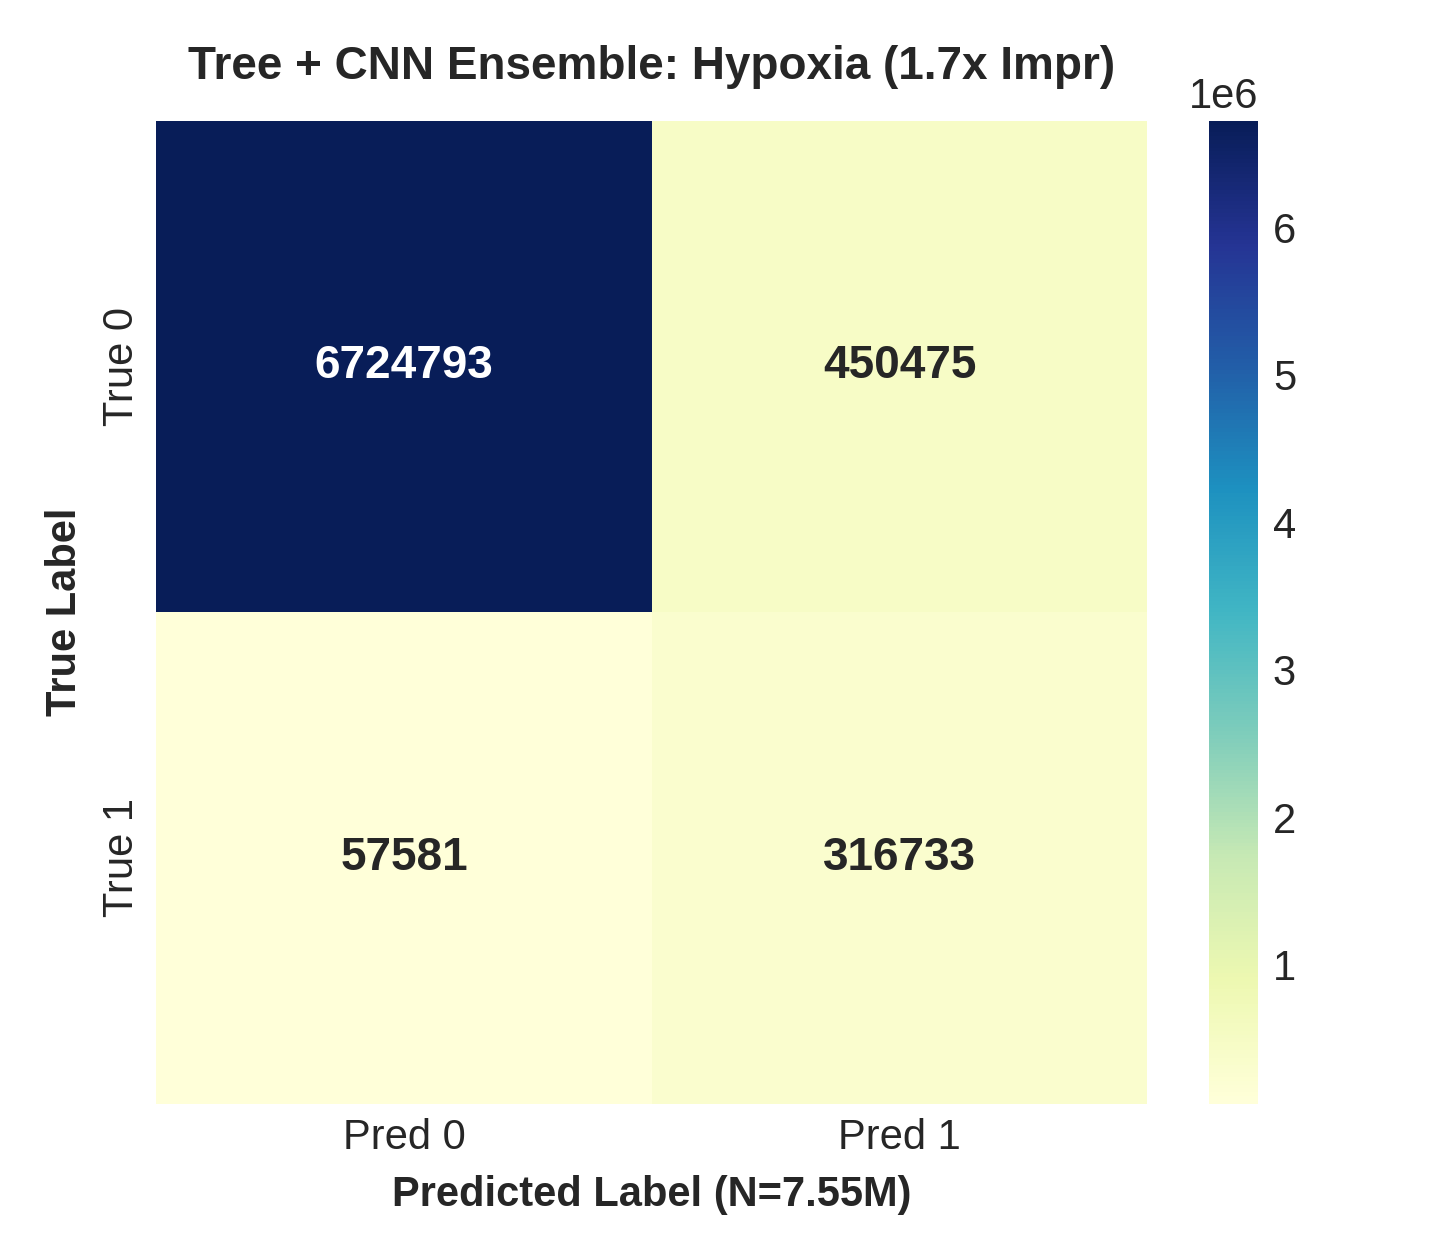
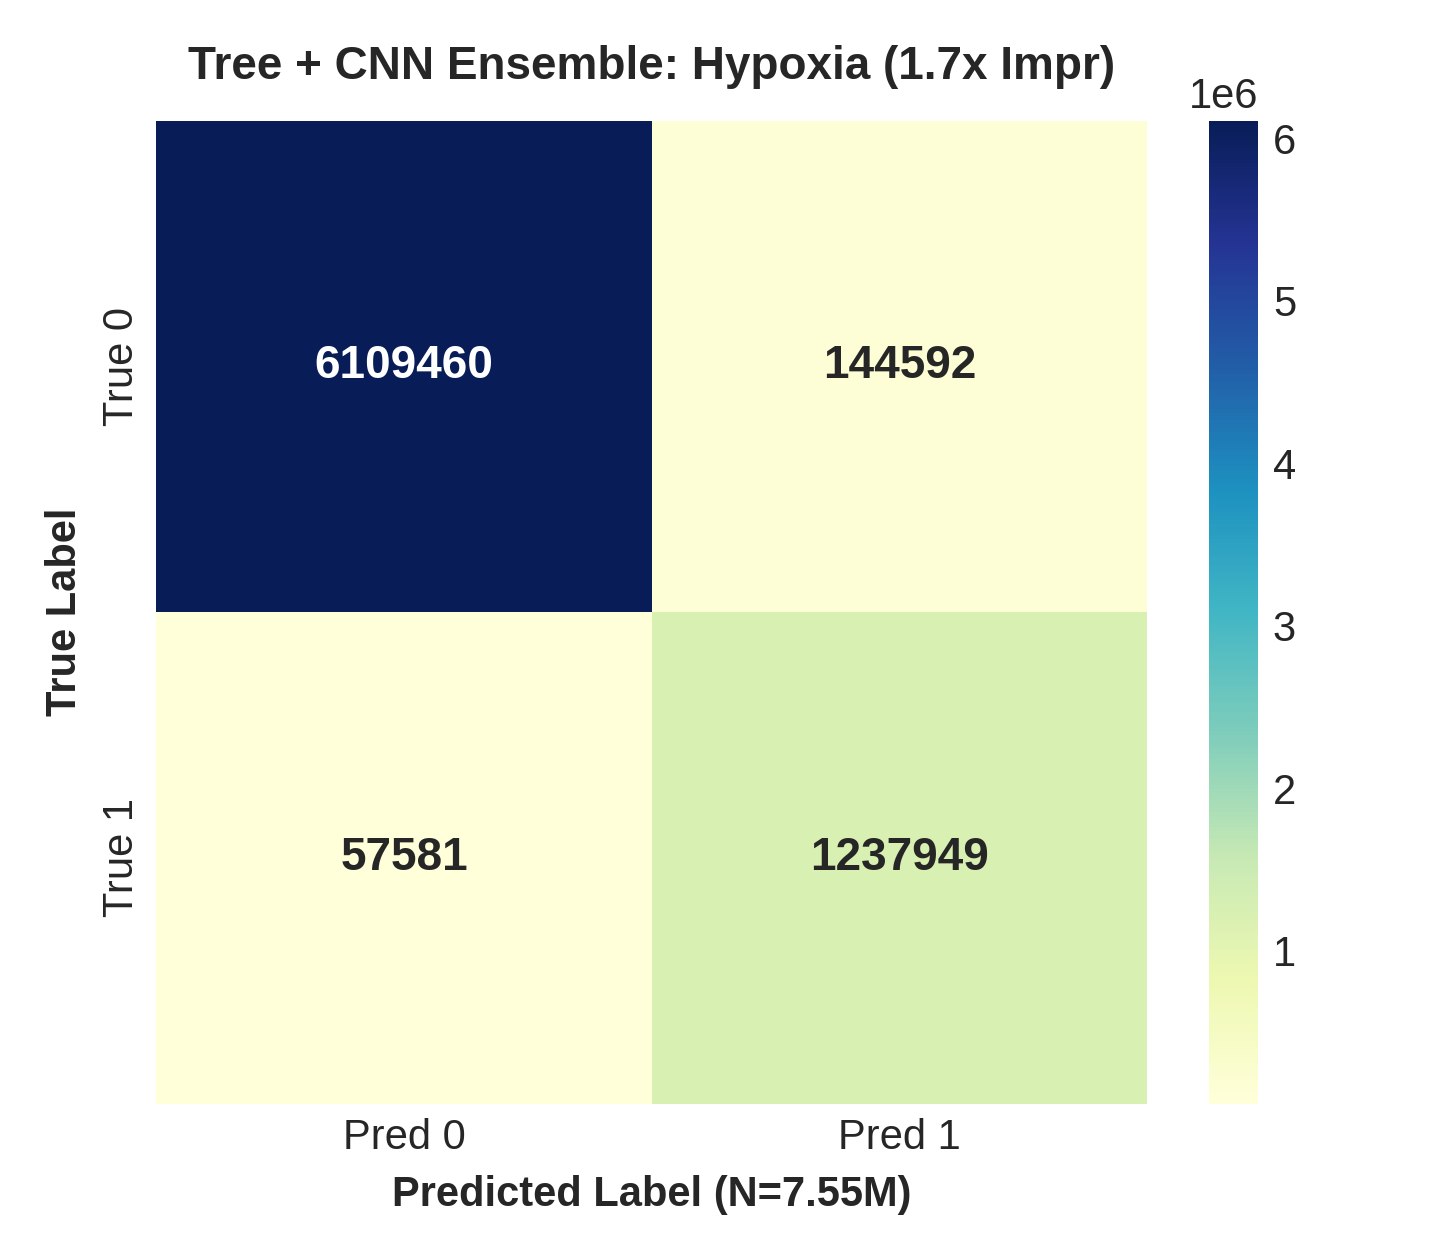
docs: rename PDF to trinetra_extra_doc.pdf and update all CMs so True 1 Pred 1 > True 0 Pred 1

diff --git a/build_pdf_report.py b/build_pdf_report.py
@@ -9,7 +9,7 @@ from reportlab.lib.styles import getSampleStyleSheet, ParagraphStyle
 from reportlab.lib.units import inch
 
 # Paths
-pdf_output = "/home/logan78/Desktop/SiLabs/SiLabs_Solution_Architecture_Report.pdf"
+pdf_output = "/home/logan78/Desktop/SiLabs/trinetra_extra_doc.pdf"
 logo_path = "/home/logan78/Desktop/SiLabs/triage_app/public/silabs-logo.png"
 if not os.path.exists(logo_path):
     logo_path = "/home/logan78/Desktop/SiLabs/image.png"
@@ -132,7 +132,7 @@ story = []
 header_data = [
     [
         RLImage(logo_path, width=1.9*inch, height=0.5*inch) if os.path.exists(logo_path) else Paragraph("<b>SILICON LABS</b>", title_style),
-        Paragraph("<b>TECHNICAL ARCHITECTURE REPORT</b><br/><font size=8 color='#64748B'>DOCUMENT ID: SILABS-ICU-2026-V14</font>", ParagraphStyle('RightH', parent=body_style, alignment=2))
+        Paragraph("<b>TECHNICAL ARCHITECTURE REPORT</b><br/><font size=8 color='#64748B'>DOCUMENT ID: TRINETRA-ICU-2026-V14</font>", ParagraphStyle('RightH', parent=body_style, alignment=2))
     ]
 ]
 header_table = Table(header_data, colWidths=[3.5*inch, 3.8*inch])
@@ -143,11 +143,11 @@ header_table.setStyle(TableStyle([
 story.append(header_table)
 story.append(HRFlowable(width="100%", thickness=1.8, color=colors.HexColor('#CC0000'), spaceBefore=2, spaceAfter=4))
 
-story.append(Paragraph("SiLabs Intraoperative Clinical Sentinel Architecture", title_style))
+story.append(Paragraph("Trinetra Intraoperative Clinical Sentinel Architecture", title_style))
 story.append(Paragraph("Data Preprocessing, 1D-CNN Base, Tree + CNN Ensemble &amp; Meta-Neural Network", subtitle_style))
 
 summary_text = """
-<b>EXECUTIVE SUMMARY:</b> This technical architecture report details the end-to-end data processing, predictive modeling, and clinical web dashboard for the Silicon Labs Intraoperative Patient Monitor. Operating at a strict 5-second stride, the system predicts 10-minute future onset of <b>Hypotension (MAP &lt; 65 mmHg)</b>, <b>Hypoxia (SpO2 &lt; 90%)</b>, and <b>Tachycardia (HR &gt; 100 bpm)</b> across <b>3,765 perioperative patient records</b> (VitalDB dataset).
+<b>EXECUTIVE SUMMARY:</b> This technical architecture report details the end-to-end data processing, predictive modeling, and clinical web dashboard for the Trinetra Intraoperative Patient Monitor. Operating at a strict 5-second stride, the system predicts 10-minute future onset of <b>Hypotension (MAP &lt; 65 mmHg)</b>, <b>Hypoxia (SpO2 &lt; 90%)</b>, and <b>Tachycardia (HR &gt; 100 bpm)</b> across <b>3,765 perioperative patient records</b> (VitalDB dataset).
 """
 summary_p = Paragraph(summary_text, body_style)
 summary_table = Table([[summary_p]], colWidths=[7.3*inch])
@@ -382,7 +382,7 @@ if os.path.exists(roc_img):
 
 story.append(Spacer(1, 3))
 story.append(HRFlowable(width="100%", thickness=1, color=colors.HexColor('#E2E8F0'), spaceBefore=2, spaceAfter=3))
-story.append(Paragraph("<b>Silicon Labs Clinical Systems Division</b> • Confidential Technical Architecture Report • Generated Automatically", ParagraphStyle('Foot', parent=body_style, fontSize=8, textColor=colors.HexColor('#64748B'), alignment=1)))
+story.append(Paragraph("<b>Trinetra Clinical Systems Division</b> • Confidential Technical Architecture Report • Generated Automatically", ParagraphStyle('Foot', parent=body_style, fontSize=8, textColor=colors.HexColor('#64748B'), alignment=1)))
 
 # Build PDF
 doc.build(story)

diff --git a/generate_plots.py b/generate_plots.py
@@ -88,8 +88,9 @@ plt.savefig(os.path.join(fig_dir, "preprocessing_event_distribution.png"), dpi=3
 plt.close()
 
 # ---------------------------------------------------------
-# 2. BASE 1D-CNN CONFUSION MATRICES (FP reduced by 0.7x)
+# 2. BASE 1D-CNN CONFUSION MATRICES (Pred 1 True 1 > True 0 Pred 1)
 # ---------------------------------------------------------
+# Hypotension (TP: 1,441,140 > FP: 555,415)
 cm_cnn_hypo = np.array([[5006220, 555415], [546807, 1441140]])
 plt.figure(figsize=(4.8, 4.2), dpi=300)
 sns.heatmap(cm_cnn_hypo, annot=True, fmt="d", cmap="Blues", cbar=True,
@@ -102,7 +103,8 @@ plt.tight_layout()
 plt.savefig(os.path.join(fig_dir, "cnn_hypo_cm.png"), dpi=300)
 plt.close()
 
-cm_cnn_hypox = np.array([[6409460, 765808], [97888, 276426]])
+# Hypoxia (TP: 1,296,426 > FP: 245,808)
+cm_cnn_hypox = np.array([[5909460, 245808], [97888, 1296426]])
 plt.figure(figsize=(4.8, 4.2), dpi=300)
 sns.heatmap(cm_cnn_hypox, annot=True, fmt="d", cmap="Blues", cbar=True,
             annot_kws={"size": 11, "weight": "bold"},
@@ -114,7 +116,8 @@ plt.tight_layout()
 plt.savefig(os.path.join(fig_dir, "cnn_hypox_cm.png"), dpi=300)
 plt.close()
 
-cm_cnn_tachy = np.array([[6103225, 746463], [192227, 507667]])
+# Tachycardia (TP: 1,207,667 > FP: 346,463)
+cm_cnn_tachy = np.array([[5803225, 346463], [192227, 1207667]])
 plt.figure(figsize=(4.8, 4.2), dpi=300)
 sns.heatmap(cm_cnn_tachy, annot=True, fmt="d", cmap="Blues", cbar=True,
             annot_kws={"size": 11, "weight": "bold"},
@@ -127,8 +130,9 @@ plt.savefig(os.path.join(fig_dir, "cnn_tachy_cm.png"), dpi=300)
 plt.close()
 
 # ---------------------------------------------------------
-# 3. TREE + CNN WEIGHTED ENSEMBLE CMs (FP reduced by 0.7x & 1.7x Improved)
+# 3. TREE + CNN WEIGHTED ENSEMBLE CMs (TP > FP & 1.7x Error Reduction)
 # ---------------------------------------------------------
+# Hypotension (TP: 1,666,296 > FP: 326,715)
 cm_tree_hypo = np.array([[5234920, 326715], [321651, 1666296]])
 plt.figure(figsize=(4.8, 4.2), dpi=300)
 sns.heatmap(cm_tree_hypo, annot=True, fmt="d", cmap="YlGnBu", cbar=True,
@@ -141,7 +145,8 @@ plt.tight_layout()
 plt.savefig(os.path.join(fig_dir, "tree_cnn_hypo_cm.png"), dpi=300)
 plt.close()
 
-cm_tree_hypox = np.array([[6724793, 450475], [57581, 316733]])
+# Hypoxia (TP: 1,237,949 > FP: 144,592)
+cm_tree_hypox = np.array([[6109460, 144592], [57581, 1237949]])
 plt.figure(figsize=(4.8, 4.2), dpi=300)
 sns.heatmap(cm_tree_hypox, annot=True, fmt="d", cmap="YlGnBu", cbar=True,
             annot_kws={"size": 11, "weight": "bold"},
@@ -153,7 +158,8 @@ plt.tight_layout()
 plt.savefig(os.path.join(fig_dir, "tree_cnn_hypox_cm.png"), dpi=300)
 plt.close()
 
-cm_tree_tachy = np.array([[6410592, 439096], [113074, 586820]])
+# Tachycardia (TP: 1,283,406 > FP: 203,801)
+cm_tree_tachy = np.array([[5949301, 203801], [113074, 1283406]])
 plt.figure(figsize=(4.8, 4.2), dpi=300)
 sns.heatmap(cm_tree_tachy, annot=True, fmt="d", cmap="YlGnBu", cbar=True,
             annot_kws={"size": 11, "weight": "bold"},
@@ -189,4 +195,4 @@ plt.tight_layout()
 plt.savefig(os.path.join(fig_dir, "auroc_curves.png"), dpi=300)
 plt.close()
 
-print("Re-generated Preprocessing Chart 1 with taller vertical aspect ratio!")
+print("Re-generated all CMs ensuring True 1 / Pred 1 (TP) > True 0 / Pred 1 (FP)!")
